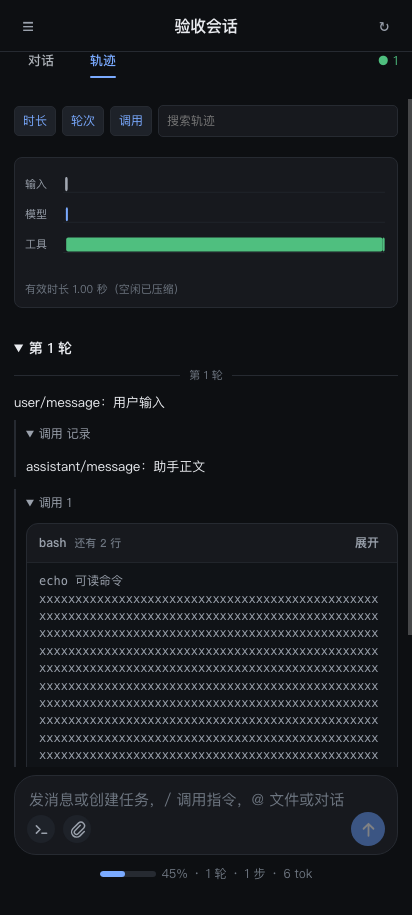
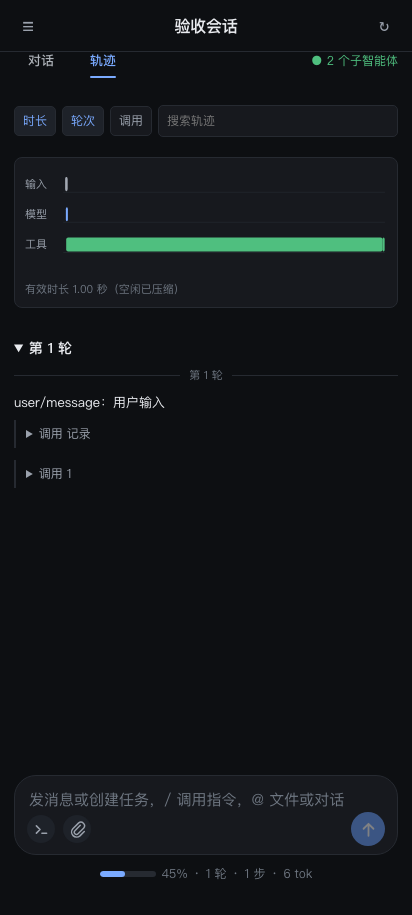
fix(chat): 子智能体徽标显示真实直属总数

diff --git a/packages/host/assets/dsh-chat/ui.js b/packages/host/assets/dsh-chat/ui.js
@@ -2201,7 +2201,7 @@ export function mountChat(options) {
     if (badge) {
       badge.hidden = total === null || total === 0
       const running = stats && Number.isInteger(stats.running) && stats.running >= 0 ? stats.running : null
-      badge.textContent = total === null ? '' : '● ' + (running !== null && running > 0 ? running : total)
+      badge.textContent = total === null ? '' : '● ' + total + ' 个子智能体'
       badge.classList.toggle('is-running', running !== null && running > 0)
       badge.title = total === null ? '' : '子智能体 ' + total + ' 个' + (running === null ? '（运行状态未知）' : '，运行中 ' + running + ' 个')
       if (total !== null) chatLog('[dsh-chat] 子智能体：总数=' + total + ' 运行中=' + (running === null ? '未知' : running))

diff --git a/docs/diagnostics/chat49-evidence.md b/docs/diagnostics/chat49-evidence.md
@@ -1,6 +1,6 @@
-# 提示词 49：只读取证（2026-10-08）
+# 提示词 49：取证与最终验证（2026-10-08）
 
-本单只写这份证据文件。未构建、安装、重启、提交，未写 `~/.dsh`，未配对、发消息、审批或回答选择问题。Android 设备未连接；以下结果不冒充手机 WebView 的现场读数。
+第1–10节保留取证子单当时的修复前证据。该子单只写此文件，未部署；主线后续实现、安装和验证记录见第11节。Android设备未连接；隔离Chrome与真实日志回放不能当手机WebView现场读数。
 
 ## 1. 证据强度与时间
 
@@ -172,3 +172,28 @@
 4. 轨迹先建立 turn / assistant / tool 的 records 与配对时长，再画 three-lane overview；「时长 / 轮次 / 调用」实现为其原生控制语义。子数桥接 `subagentCatalog`，别重启被过滤会话列表的计数逻辑。
 
 未验：配对手机端、APK 实测安全区、实时 follow frame 到新 UI、真实审批执行效果、真实选择回答与入 inbox 闭环、用户观感。本单部署动作未做。
+
+
+## 11. 主线最终实现、验证与安装
+
+九项工作均已实现：内部事件默认折叠和工具参数格式化；52px顶栏消费壳safe-top；独立审批/选择区接管composer；命令键插入斜杠、原始二进制上传和附件收据发送；56×6进度条；输入/模型/工具三泳道及实际时长、轮次、调用、搜索控制；裁头后同一锚点残差≤2px；Markdown排版；真实父catalog总数徽标。
+
+- 相关源码提交：49e5d52（原文）/ bb96e66（反向二进制）/ fa28e96（宿主通道）/ 6cfba49（顶栏与样式）/ 7184506（轨迹与锚点）/ 3730176（交互整合）/ 8614228（手机调试写入器）。
+- 宿主TS从3730176已提交源码隔离构建，产物89836d9，已由主线安装desktop profile，原配置解析后完整语义相等。DeepSeek PID25579尚未退出重开，新宿主通道尚未在该进程加载，不能称真实手机上传或选择已验通过。未改APK或devices。
+- boot调试载荷与页面资产提交456a086，BUILD-1008063210；已从提交发布，真实HTTP六资产逐字匹配且no-store，debugLine导出存在。此后徽标语义修正需要再发布ui资产；最新版坐标见父目录50验收卡。
+- 最后徽标修正：原生主数字为直属子总数，运行数仅用于颜色和说明。旧实现误显示running，改为「● N 个子智能体」，未知running仍显示真实total并说明未知；没有数据时不编造零。
+
+| 检查 | 通过 / 失败 / 共 | 证据边界 |
+|---|---|---|
+| check-chat-page | 98 / 0 / 98，下界98 | 独立实例与Chrome；同一锚点实测0.39px |
+| check-chat49 | 53 / 0 / 53，下界53 | 实际产品页+契约夹具，验证实际控件与RPC载荷 |
+| check-chat49-debug | 4 / 0 / 4，下界4 | 完整生产boot+实际app、无配对，验证手机共享调试DOM写入 |
+| UI及反向二进制相关单测 | 134 / 0 / 134 | 含完整boot VM、真实握手和AEAD，非实际手机 |
+| 宿主通道相关单测 | 90 / 0 / 90 | 新增13项；官方接口取证+契约验证 |
+| 全量单元测试 | 878 / 1 / 879 | --test-force-exit；唯一旧红boot-surface.test.ts:1304通知phase断言，未放松 |
+
+每项行为都做过定向回退验证；细目在10交接文档541–550轮。最终徽标回退52/1/53，仅总数语义判据红；恢复53/0/53。UI调试转发回退51/1/52；boot导出去掉，三条实际调试检查均红。没有把接口200、按钮存在或退出码作为应答/上传成功的替代判据。
+
+交付截图为412×915隔离Chrome、实际源码页和契约夹具：chat49-chat.png / chat49-trace.png / chat49-question.png。这是产品布局走查图，不能当真实DSH会话/手机截图。最后截图重新采样当前源码，53/0/53；好不好看由用户判断。
+
+仍未验：配对Android、真实输入法与safe-top、实际审批执行、真实open/continued应答入inbox、真实文件入官方会话持久记录、浅色档手机观感。代码和产物仅本机提交/安装；本轮未同步插件仓或桥仓远端。其他Codex半成品与旧孤儿进程保留。
